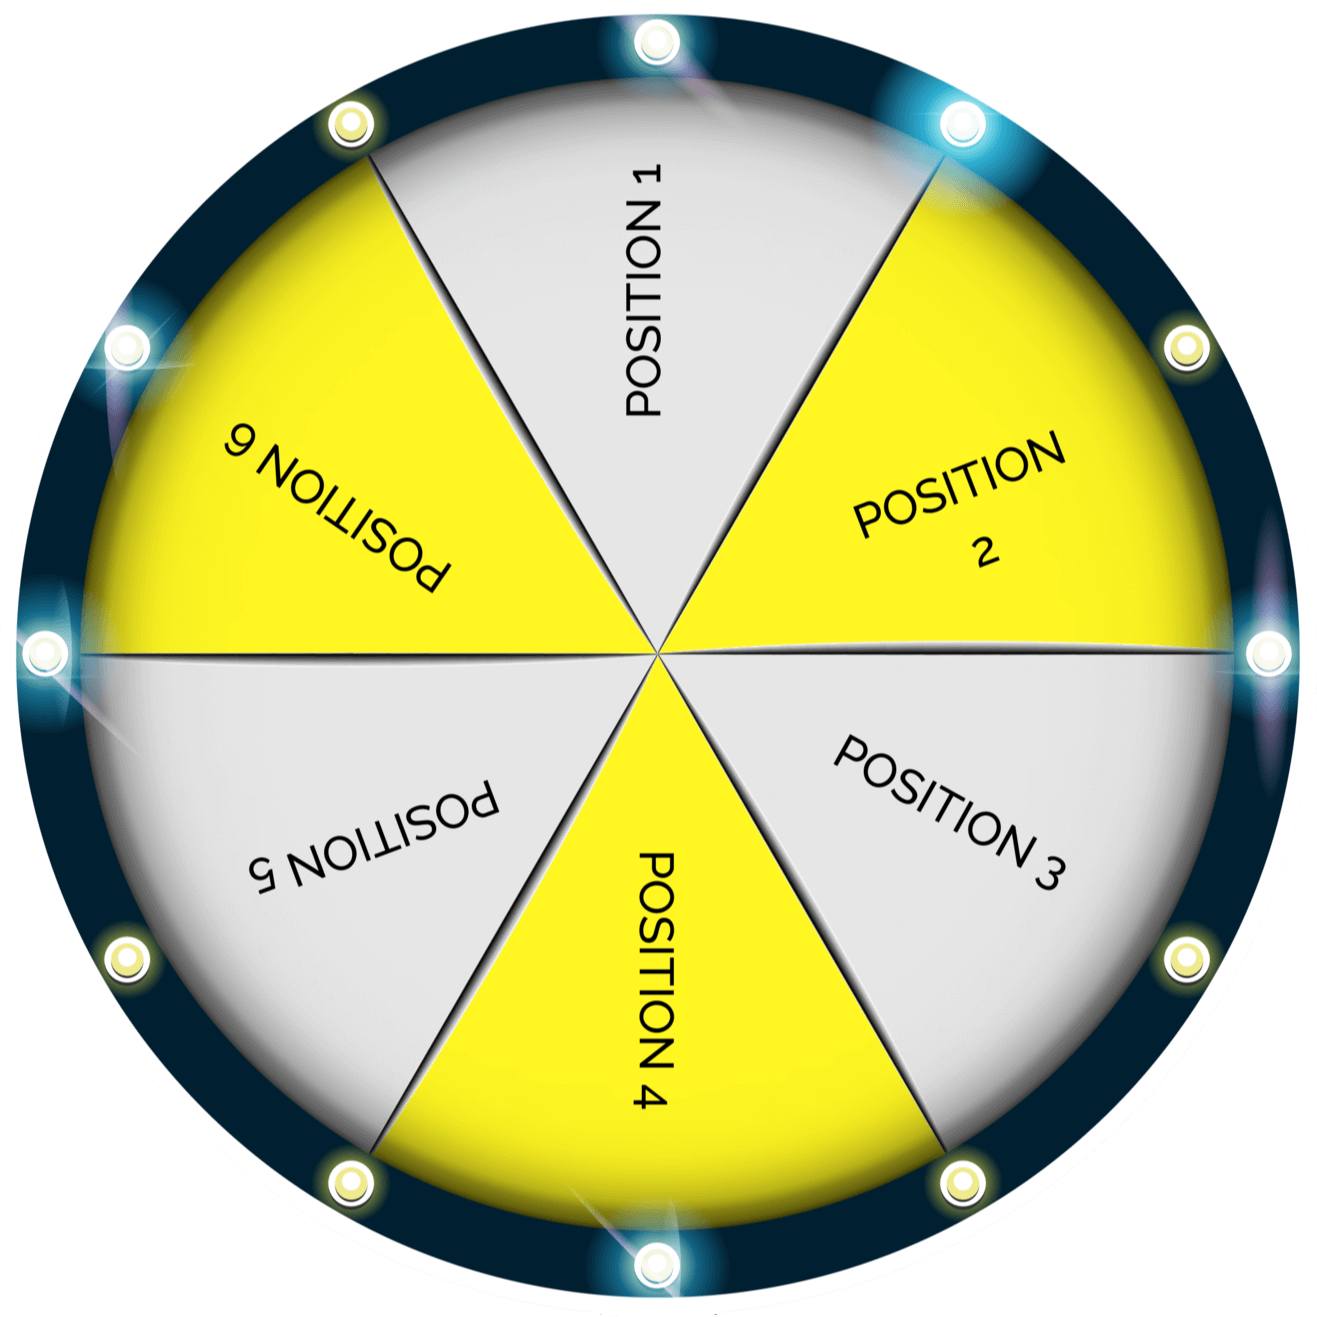
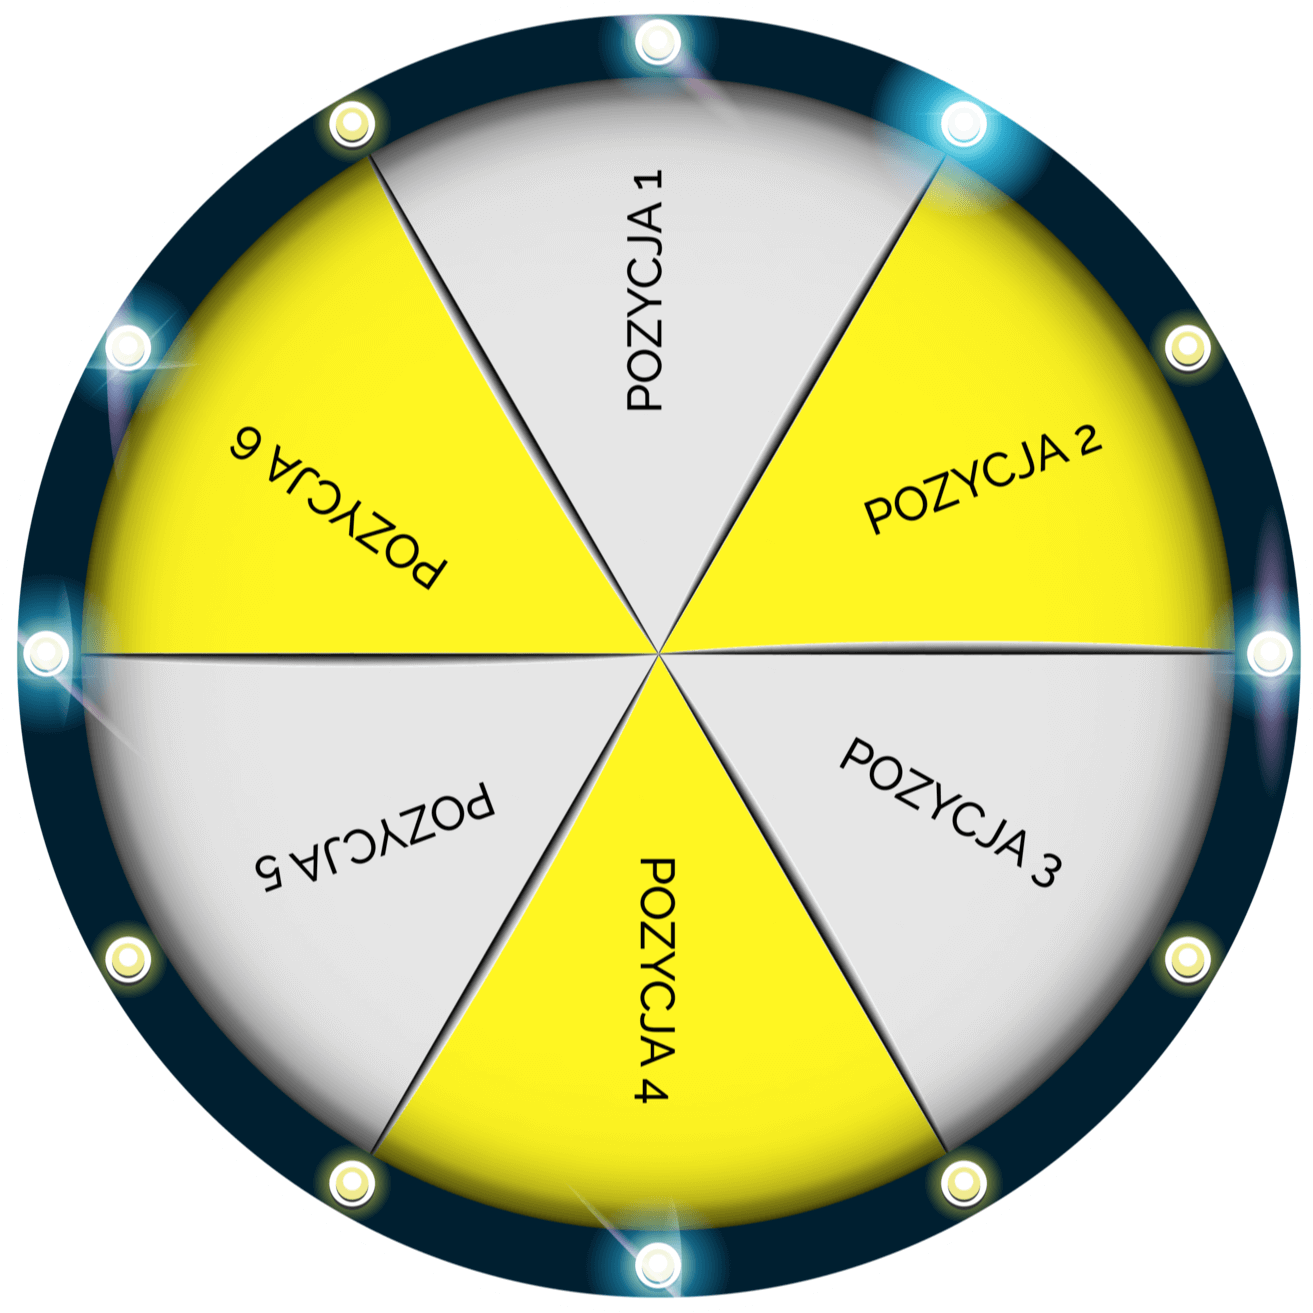
refine roulette algorithm and change some text in it

diff --git a/index.html b/index.html
@@ -879,7 +879,7 @@
                             </div>
                             <div class="survey_result_form" action="#">
                                 <div class="survey_result_form_content">
-                                    <input type="text" name="survey_phone" placeholder="+375 __ ___ __ __" class="survey_result_form_input" required> 
+                                    <input type="text" name="survey_phone" placeholder="+370 __ ___ __ __" class="survey_result_form_input" required>
                                     <button type="submit" class="btn btn_test btn_test_result">Gauti apskaičiavimą + nuolaida -15%</button>
                                 </div>
                                 <div class="survey_result_form_bottom">
@@ -945,7 +945,7 @@
 			<div class="consult_items">
                 <form class="consult_form" action="#">
                     <div class="consult_form_content">
-                        <input type="text" name="consult_phone" placeholder="+375 __ ___ __ __" class="consult_form_input" required> 
+                        <input type="text" name="consult_phone" placeholder="+370 __ ___ __ __" class="consult_form_input" required>
                         <button type="submit" class="btn btn_test btn_test_form">Siųsti</button>
                     </div>
                     <div class="consult_form_bottom">
@@ -998,16 +998,17 @@
             <div class="roulette_close"><img data-close src="icons/close.svg" alt="close"></div>
             <div class="roulette_content">
                 <div class="roulette_content_item">
-                    <div class="title title_70 bold">Крутите колесо!</div>
-                    <div class="title title_24">И выиграйте бонус при покупке нового потолка!</div>
-                    <button class="btn btn_test btn_test_roulette" onclick="congratulate()">Крутить</button>
+                    <div class="title title_70 bold">Pasukite ratą!</div>
+                    <div class="title title_24">Ir laimėkite premiją perkant naujas lubas!</div>
+                    <button class="btn btn_test btn_test_roulette" onclick="congratulate()">Sukti</button>
                 </div>
                 <div class="roulette_content_item hide">
-                    <div class="title title_70 bold">Поздравляем!</div>
-                    <div class="title title_24">Вы выиграли бонус!</div>
+                    <div class="title title_70 bold">Sveikiname!</div>
+                    <div class="title title_24">Jūs laimėjote premiją!</div>
                     <form class="roulette_form" action="#">
-                        <input type="text" name="roulette_phone" placeholder="+375 __ ___ __ __" class="roulette_form_input" required> 
-                        <button type="submit" class="btn btn_test btn_test_roulette">Забрать бонус!</button>
+                        <input type="text" name="roulette_phone" placeholder="+370 __ ___ __ __" class="roulette_form_input" required>
+                        <input type="hidden" name="roulette_result" class="roulette_result">
+                        <button type="submit" class="btn btn_test btn_test_roulette">Atsiimti premiją!</button>
                     </form>
                 </div>
             </div>
@@ -1017,13 +1018,13 @@
         <div class="hundredth_modal">
             <div class="hundredth_close" onclick="closeModal('.hundredth')"><img data-close src="icons/close.svg" alt="close"></div>
             <div class="hundredth_content">
-                <div class="title title_36 bold">Поздравляем!</div>
-                <div class="title yellow">Вы стали  <span>100-ым</span>  посетителем сайта!</div>
-                <div class="title title_32 bold">Ваш уникальный код:<br><span>2531</span></div>
-                <div class="title letter">Заполните форму и получите<br>подарок при заказе дверей</div>
+                <div class="title title_36 bold">Sveikiname!</div>
+                <div class="title yellow">Jūs tapote  <span>100-uoju</span>  svetainės lankytoju!</div>
+                <div class="title title_32 bold">Jūsų unikalus kodas:<br><span>2531</span></div>
+                <div class="title letter">Užpildykite formą ir gaukite<br>dovana užsakant duris</div>
                 <form class="hundredth_form" action="#">
-                    <input type="text" name="hundredth_phone" placeholder="Телефон" class="hundredth_form_input" required> 
-                    <button type="submit" class="btn btn_test btn_test_form">Получить подарок</button>
+                    <input type="text" name="hundredth_phone" placeholder="Telefonas" class="hundredth_form_input" required>
+                    <button type="submit" class="btn btn_test btn_test_form">Gauti dovaną</button>
                 </form>
             </div>
         </div>

diff --git a/js/script.js b/js/script.js
@@ -38,20 +38,47 @@ counters_items.forEach((item, index) => {
     }
 });
 
+function deleteNotDigits(str) {
+    return +str.replace(/[^\d\.]/g, '');
+}
+
 function congratulate() {
     let roulette_btn = document.querySelector('.roulette_btn');
     let roulette_image = document.querySelector('.roulette_image img');
+    let roulette_row = document.querySelector('.roulette_row img');
+    let roulette_result = document.querySelector('.roulette_result');
     let roulette_items = document.querySelectorAll('.roulette_content_item');
+    let angle = '', result;
+
+    roulette_image.style.animation = 'none';
+    roulette_row.style.animation = 'none';
     
-    roulette_image.style.animation = 'spin 1s linear 0s infinite'
+    let timer = setInterval(function() {
+        angle = deleteNotDigits(angle) + 3 + 'deg';
+        roulette_image.style.transform = `rotate(${angle})`;
+    }, 10);
+
     setTimeout(function(){
         roulette_btn.classList.add('hide');
         roulette_items.forEach((item) => {
             item.classList.toggle('hide');
         });
-        roulette_image.style.animation = 'spin 17s linear 0s infinite'
-    }, 3000);
-    
+        clearInterval(timer);
+
+        if ((deleteNotDigits(angle) / 60) % 6 == 0 || (deleteNotDigits(angle) / 60) % 6 == 0.5) {
+            result = 1;
+        } else {
+            result = 7 - (deleteNotDigits(angle) / 60) % 6;
+        }
+        
+        if (result - Math.floor(result) >= 0.5) {
+            result = Math.ceil(result);
+        } else {
+            result = Math.floor(result);
+        }
+
+        roulette_result.value = result;
+    }, Math.floor(Math.random() * (5000 - 2000 + 1)) + 2000);
 }
 
 function slider({container, wrapper, field, slide, indicatorsSelector, nextArrow, prevArrow, duration = 0}) {
@@ -183,10 +210,6 @@ function slider({container, wrapper, field, slide, indicatorsSelector, nextArrow
             changeActivity();
         },duration);
     }
-
-    function deleteNotDigits(str) {
-        return +str.replace(/[^\d\.]/g, '');
-    }
 }
 
 function openModal(modalSelector) {
@@ -236,4 +259,4 @@ slider({
 
 modal('[data-modal]', 'data-close', '.consult');
 modal('[data-modal-2]', 'data-close', '.roulette');
-setTimeout(() => openModal('.hundredth'), 3000)
+setTimeout(() => openModal('.hundredth'), 40000)

diff --git a/sass/media/_survey.scss b/sass/media/_survey.scss
@@ -28,7 +28,6 @@
         }
         &_count {
             margin-top: 16px;
-            padding: 0 12px;
             width: 38.23%;
             height: 24px;
             background: linear-gradient(0deg, #fff622 0%, #fffa89 100%);

diff --git a/sass/blocks/_survey.scss b/sass/blocks/_survey.scss
@@ -20,7 +20,7 @@
         width: 73.53%;
     }
     &_count {
-        padding: 0 22px;
+        padding: 12px 22px;
         display: flex;
         justify-content: center;
         align-items: center;
